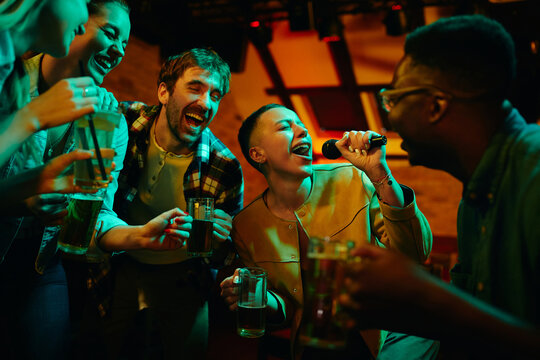
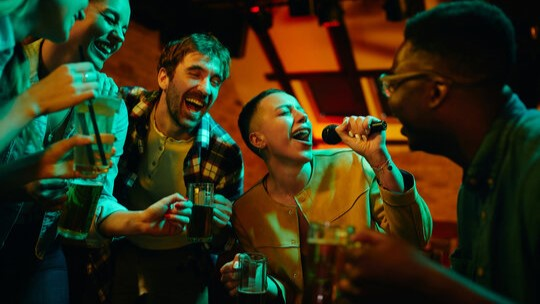
Erstattet bilder med andre som er "Copyrightfree"

diff --git a/pages/activity.html b/pages/activity.html
@@ -1,6 +1,6 @@
 <!DOCTYPE html>
 <html lang="no">
-  <head>
+  <head class="main-activitypage">
     <meta charset="UTF-8">
     <meta name="viewport" content="width=device-width, initial-scale=1">
     <title>Aktivitet - OsloMet</title>
@@ -24,7 +24,7 @@
       </nav>
       <div class="activity-header"> 
         <img src="../images/Folk-i-aktivitet.jpg" alt="folk i aktivitet" width="100%">
-        <div class="activity-front-photo">¨
+        <div class="activity-front-photo">
           <h1>Aktivitet</h1>
           <!--Fotografen er en av gruppemedlemmene-->
           <p>Foto: Privat</p> 
@@ -51,9 +51,8 @@
           <p>Er du jjinja interresert? Aigoo, shibal! <a href="https://www.jopping.org/home">Trykk her for å melde deg på.</a></p>  
         </div>
         <div class="activity-photo">
-          <!--Skjermbilde fra https://youtu.be/b6ycw7p9-bE?si=S72kM2O2de5Oi5Bk-->
-          <img src="../images/kpop-dancing.png" alt="EXO danser til 'The Eve'">
-          <p class="photo-source">Foto: SM Enterntainment</p>
+          <img src="../images/kpopdansingCopyrightfree.jpg" alt="EXO opptrer under 2013 K-POP World Festival">
+          <p class="photo-source">Foto: KOREA.NET - Official page of the Republic of Korea</p> <!--under lisens fra Creative Commons Attribution-Share Alike 2.0 Generic license-->
         </div>
       </section>
       <section class="activity-section-mirror">
@@ -67,8 +66,8 @@
           <p><a href="https://youtu.be/Q1rQc7keRng?si=2h5VZlGH2pY_UDh4">Meld deg på her homie</a></p>
         </div>
         <div class="activity-photo">
-          <img src="../images/rapbattle.png" alt="Jente rapper foran en hjort">  
-          <p class="photo-source">Foto: My Deer Friend Nokotan © Wit Studio</p>   
+          <img src="../images/rapper-in-korea.jpg" alt="Ukjent rapper i Sør-Korea">  
+          <p class="photo-source">Foto: Privat</p>  <!--Fotografen er en av gruppemedlemmene--> 
         </div>                                                        
       </section>
       <section class="activity-section">
@@ -87,8 +86,8 @@
             <p><a href="https://www.youtube.com/watch?v=fJ9rUzIMcZQ">Click here to join</a></p>
         </div>
         <div class="activity-photo">
-          <img src="../images/rock.jpg" alt="En animekarakter som holder en elektriskgitar">
-          <p class="photo-source">Foto: Bocchi the Rock! © CloverWorks.</p>
+          <img src="../images/rockCopyrightfree.jpg" alt="Utstilling av gitarer utendørs">
+          <p class="photo-source">Foto: Andrew Hitchcock</p> <!--under lisens fra  Creative Commons Attribution 2.0 Generic license.-->
         </div>
       </section>
       <section class="activity-section-mirror">
@@ -174,7 +173,7 @@
           </a>
           <a href="https://www.ticketmaster.no/">
             <div class="blog-box">
-              <img src="../images/Jungkook.webp" alt="BTS Jungkook"> <!--Foto: Getty Images fra https://www.teenvogue.com/story/jungkook-clarified-the-unhinged-home-decor-bts-roasted-him-for--> 
+              <img src="../images/JungkookCopyrightfree.jpg" alt="BTS Jungkook"> <!--Foto: Dispatch / Wikimedia Commons, lisensiert under Creative Commons Attribution 3.0 Unported license.-->
               <h3>K-pop møter Oslo</h3>
               <p>
               Jungkook fra BTS holdt foredrag om koreansk musikk på OsloMet P35. Han ble møtt på med mye ros.
@@ -183,8 +182,8 @@
           </a>
           <a href="https://www.whitehouse.gov/">
             <div class="blog-box">
-              <!--Foto: Encyclopædia Britannica, Inc. fra https://www.britannica.com/biography/Barack-Obama-->
-              <img src="../images/obama.webp" alt="Barack Obama"> 
+              <!--Foto: Center for American Progress Action Fund / Wikimedia Commons, lisensiert under Creative Commons Attribution-Share Alike 2.0 Generic license.-->
+              <img src="../images/ObamaCopyrightfree.jpg" alt="Barack Obama"> 
               <h3>Obama rapbattle bekreftet</h3>
               <p>
               Obama har gjort om kjelleren sin til en episk hiphop-arena.
